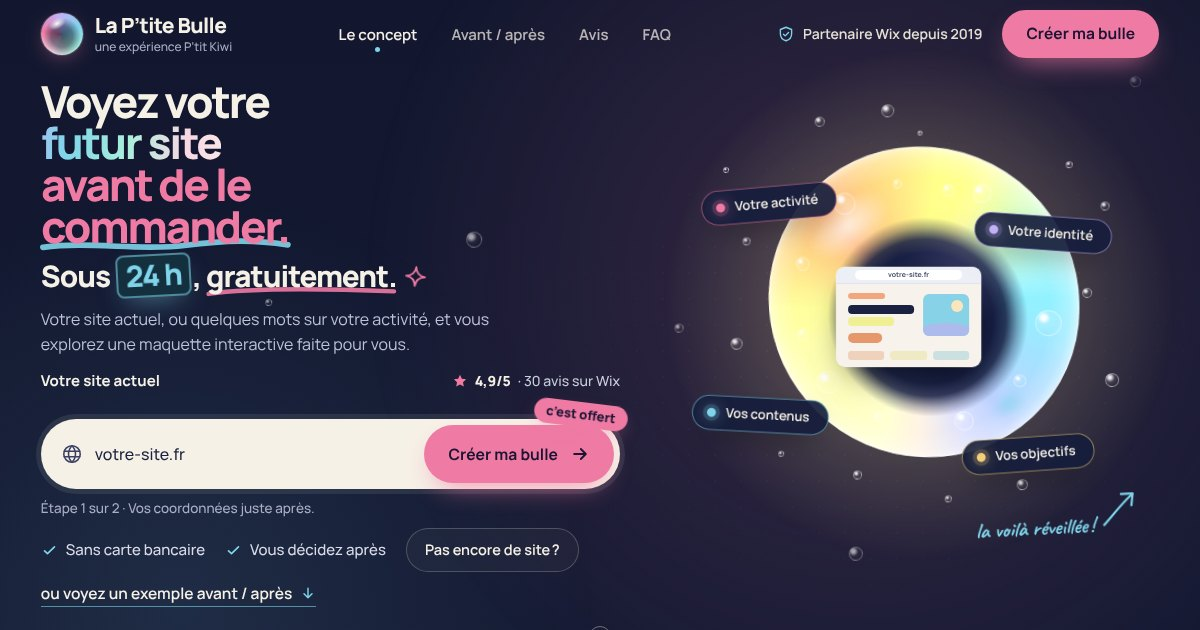
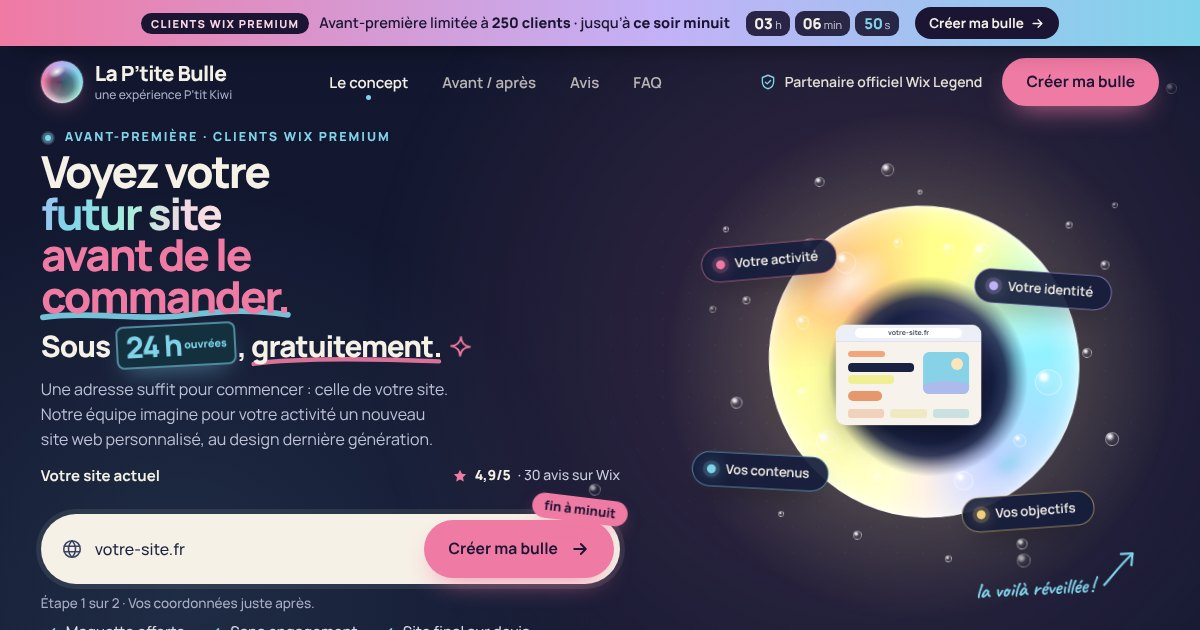
Harmonie avec le mail clients Wix

diff --git a/index.html b/index.html
@@ -4,12 +4,12 @@
 <meta charset="utf-8">
 <meta name="viewport" content="width=device-width, initial-scale=1">
 <title>La P’tite Bulle · Voyez votre futur site avant de le commander</title>
-<meta name="description" content="Une maquette interactive de votre futur site, imaginée pour votre activité. Offerte, prête sous 24 h, sans engagement. Une expérience P’tit Kiwi.">
+<meta name="description" content="Clients Wix Premium : découvrez en avant-première votre futur site, imaginé sous 24 h ouvrées. Maquette offerte, sans engagement, jusqu’au 25 octobre à minuit.">
 <meta name="theme-color" content="#12172F">
 <meta property="og:type" content="website">
 <meta property="og:locale" content="fr_FR">
 <meta property="og:title" content="La P’tite Bulle · Voyez votre futur site avant de le commander">
-<meta property="og:description" content="Une maquette interactive de votre futur site, offerte et prête sous 24 h. Une expérience P’tit Kiwi.">
+<meta property="og:description" content="En avant-première pour les clients Wix Premium : votre futur site imaginé sous 24 h ouvrées. Maquette offerte, jusqu’à ce soir minuit.">
 <meta property="og:url" content="https://la-ptite-bulle-lp.vercel.app/">
 <meta property="og:image" content="https://la-ptite-bulle-lp.vercel.app/og.jpg">
 <meta property="og:image:width" content="1200">
@@ -27,9 +27,9 @@
 <a class="skip" href="#lp-field">Aller au formulaire</a>
 <div id="offer" class="offer-bar" data-end="2026-10-25T23:00:00Z" role="region" aria-label="Offre limitée">
 <div class="offer-inner wrap">
-<p class="offer-text"><span class="offer-tag">Offre limitée</span><span class="offer-long">Votre maquette offerte <strong>jusqu’à ce soir minuit</strong></span><span class="offer-short">Offre <strong>jusqu’à minuit</strong></span></p>
+<p class="offer-text"><span class="offer-tag">Clients Wix Premium</span><span class="offer-long">Avant-première limitée à <strong>250 clients</strong> · jusqu’à <strong>ce soir minuit</strong></span><span class="offer-short"><strong>250 places</strong><span class="offer-short-x"> · fin à minuit</span></span></p>
 <p class="offer-timer" aria-hidden="true"><span class="ot"><b data-t="h">--</b><i>h</i></span><span class="ot"><b data-t="m">--</b><i>min</i></span><span class="ot ot-s"><b data-t="s">--</b><i>s</i></span></p>
-<span class="sr-only">Offre valable jusqu’au dimanche 25 octobre à minuit, heure de Paris.</span>
+<span class="sr-only">Avant-première réservée aux clients Wix Premium, limitée à 250 clients, valable jusqu’au dimanche 25 octobre à minuit, heure de Paris.</span>
 <button type="button" class="offer-cta" data-goto-field>Créer ma bulle<svg aria-hidden="true" viewBox="0 0 24 24"><path d="M5 12h14M13 6l6 6-6 6"/></svg></button>
 <p class="offer-ended-msg">Cette offre s’est terminée le dimanche 25 octobre à minuit.</p>
 </div>
@@ -62,15 +62,16 @@
 <button type="button" data-open="panel-avis">Avis</button>
 <button type="button" data-open="panel-faq">FAQ</button>
 </nav>
-<div class="top-right"><p class="top-badge"><svg aria-hidden="true" viewBox="0 0 24 24"><path d="M12 3l7.5 3v5.6c0 4.6-3.2 8.2-7.5 9.4-4.3-1.2-7.5-4.8-7.5-9.4V6z"/><path d="M8.6 12.2l2.4 2.3 4.4-4.6"/></svg>Partenaire Wix depuis 2019</p><button type="button" class="btn btn-pink btn-sm" data-goto-field data-magnet>Créer ma bulle</button></div>
+<div class="top-right"><p class="top-badge"><svg aria-hidden="true" viewBox="0 0 24 24"><path d="M12 3l7.5 3v5.6c0 4.6-3.2 8.2-7.5 9.4-4.3-1.2-7.5-4.8-7.5-9.4V6z"/><path d="M8.6 12.2l2.4 2.3 4.4-4.6"/></svg>Partenaire officiel Wix Legend</p><button type="button" class="btn btn-pink btn-sm" data-goto-field data-magnet>Créer ma bulle</button></div>
 </header>
 
 <div class="hero-main wrap">
 <div class="hero-copy">
+<p class="hero-eyebrow"><span class="pulse-dot" aria-hidden="true"><span></span></span>Avant-première · clients Wix Premium</p>
 <h1 id="lp-title" class="hero-title"><span class="w" style="--i:0">Voyez</span> <span class="w" style="--i:1">votre</span><br><span class="w iris" style="--i:2">futur site</span><br><span class="pink"><span class="w" style="--i:3">avant</span> <span class="w" style="--i:4">de</span> <span class="w" style="--i:5">le</span><br><span class="w swoosh" style="--i:6">commander.<svg aria-hidden="true" viewBox="0 0 400 26"><path d="M6 18 C 80 8, 160 24, 230 15 S 340 6, 394 14"/></svg></span></span></h1>
-<p class="promise">Sous <span class="chip-24">24 h</span>, <span class="promise-tail"><span class="promise-free">gratuitement.<svg aria-hidden="true" viewBox="0 0 300 20"><path d="M4 14 C 60 6, 140 4, 296 10"/></svg></span><svg class="promise-spark" aria-hidden="true" viewBox="0 0 24 24"><path d="M12 2 C12.6 8.2 15.8 11.4 22 12 C15.8 12.6 12.6 15.8 12 22 C11.4 15.8 8.2 12.6 2 12 C8.2 11.4 11.4 8.2 12 2 Z"/></svg></span></p>
+<p class="promise">Sous <span class="chip-24">24 h<small>ouvrées</small></span>, <span class="promise-tail"><span class="promise-free">gratuitement.<svg aria-hidden="true" viewBox="0 0 300 20"><path d="M4 14 C 60 6, 140 4, 296 10"/></svg></span><svg class="promise-spark" aria-hidden="true" viewBox="0 0 24 24"><path d="M12 2 C12.6 8.2 15.8 11.4 22 12 C15.8 12.6 12.6 15.8 12 22 C11.4 15.8 8.2 12.6 2 12 C8.2 11.4 11.4 8.2 12 2 Z"/></svg></span></p>
 
-<p class="lead">Votre site actuel, ou quelques mots sur votre activité, et vous explorez une maquette interactive faite pour vous.</p>
+<p class="lead">Une adresse suffit pour commencer : celle de votre site. Notre équipe imagine pour votre activité un nouveau site web personnalisé, au design dernière génération.</p>
 
 <div class="field-block">
 <div class="field-head">
@@ -107,8 +108,9 @@
 
 <div class="hero-extra">
 <ul class="checks">
-<li><svg aria-hidden="true" viewBox="0 0 24 24"><path d="M5 12.5l4.2 4L19 7"/></svg>Sans carte bancaire</li>
-<li><svg aria-hidden="true" viewBox="0 0 24 24"><path d="M5 12.5l4.2 4L19 7"/></svg>Vous décidez après</li>
+<li><svg aria-hidden="true" viewBox="0 0 24 24"><path d="M5 12.5l4.2 4L19 7"/></svg>Maquette offerte</li>
+<li><svg aria-hidden="true" viewBox="0 0 24 24"><path d="M5 12.5l4.2 4L19 7"/></svg>Sans engagement</li>
+<li><svg aria-hidden="true" viewBox="0 0 24 24"><path d="M5 12.5l4.2 4L19 7"/></svg>Site final sur devis</li>
 <li id="lp-toggle-item"><button type="button" id="lp-toggle" class="btn btn-ghost btn-sm">Pas encore de site ?</button></li>
 </ul>
 <a href="#avant-apres" class="link-down">ou voyez un exemple avant / après<svg aria-hidden="true" viewBox="0 0 24 24"><path d="M12 5v14M6 13l6 6 6-6"/></svg></a>
@@ -300,7 +302,7 @@
 <ol class="steps">
 <li class="step"><span class="step-num" aria-hidden="true">01</span><span class="step-text"><span class="step-title">On part de votre site actuel</span><span class="step-sub">Vos textes, vos photos, votre histoire.</span></span></li>
 <li class="step"><span class="step-num" aria-hidden="true">02</span><span class="step-text"><span class="step-title">On imagine votre nouvelle bulle</span><span class="step-sub">Identité, structure et contenus repensés.</span></span></li>
-<li class="step"><span class="step-num" aria-hidden="true">03</span><span class="step-text"><span class="step-title">Vous explorez la maquette</span><span class="step-sub">Navigable, sous 24 h, sans engagement.</span></span></li>
+<li class="step"><span class="step-num" aria-hidden="true">03</span><span class="step-text"><span class="step-title">Vous explorez la maquette</span><span class="step-sub">Navigable, sous 24 h ouvrées, sans engagement.</span></span></li>
 </ol>
 </div>
 <div class="s2-actions">
@@ -324,26 +326,26 @@
 </div>
 
 <div class="final-inner wrap">
-<p class="eyebrow final-eyebrow"><span class="pulse-dot" aria-hidden="true"><span></span></span>À vous de jouer</p>
+<p class="eyebrow final-eyebrow"><span class="pulse-dot" aria-hidden="true"><span></span></span>Avant-première clients Wix Premium</p>
 <h2 id="final-title" class="final-title">Prêt à souffler<br><span class="final-iris">votre bulle ?</span></h2>
-<p class="final-lead">Une adresse, un e-mail, et votre futur site prend forme.</p>
+<p class="final-lead">Une adresse suffit pour commencer : celle de votre site.</p>
 
 <div class="countdown" aria-hidden="true">
 <span class="cd-label">L’offre se termine dans</span>
 <div class="cd-row"><span class="cd-b"><b data-t="h">--</b><i>heures</i></span><span class="cd-sep">:</span><span class="cd-b"><b data-t="m">--</b><i>minutes</i></span><span class="cd-sep">:</span><span class="cd-b cd-sec"><b data-t="s">--</b><i>secondes</i></span></div>
-<span class="cd-end">Dimanche 25 octobre à minuit, heure de Paris</span>
+<span class="cd-end">Limité à 250 clients Wix · jusqu’au dimanche 25 octobre à minuit, heure de Paris</span>
 </div>
-<p class="sr-only">L’offre est valable jusqu’au dimanche 25 octobre à minuit, heure de Paris.</p>
+<p class="sr-only">L’offre est limitée à 250 clients Wix et valable jusqu’au dimanche 25 octobre à minuit, heure de Paris.</p>
 <div class="final-zone">
 <ul class="sr-only">
-<li>Gratuit</li><li>Sans engagement</li><li>Maquette navigable</li><li>Sur mesure</li><li>Sans carte bancaire</li>
+<li>Maquette offerte</li><li>Sans engagement</li><li>Sur mesure</li><li>Design dernière génération</li><li>Avec Wix Headless</li>
 </ul>
 <div class="pops" aria-hidden="true">
-<span class="pop" style="--px:-16%;--py:40px;--ps:118px;--pd:7s;--pdl:-1s;--pc:239,122,164"><span class="pop-ball"></span><span class="pop-label">Gratuit</span><span class="pop-drops"><i></i><i></i><i></i><i></i><i></i><i></i></span></span>
+<span class="pop" style="--px:-16%;--py:40px;--ps:118px;--pd:7s;--pdl:-1s;--pc:239,122,164"><span class="pop-ball"></span><span class="pop-label">Offerte</span><span class="pop-drops"><i></i><i></i><i></i><i></i><i></i><i></i></span></span>
 <span class="pop" style="--px:116%;--py:24px;--ps:132px;--pd:8s;--pdl:-3s;--pc:127,212,234"><span class="pop-ball"></span><span class="pop-label">Sans engagement</span><span class="pop-drops"><i></i><i></i><i></i><i></i><i></i><i></i></span></span>
 <span class="pop" style="--px:-20%;--py:220px;--ps:124px;--pd:7.5s;--pdl:-2s;--pc:195,177,247"><span class="pop-ball"></span><span class="pop-label">Sur mesure</span><span class="pop-drops"><i></i><i></i><i></i><i></i><i></i><i></i></span></span>
-<span class="pop" style="--px:115%;--py:262px;--ps:112px;--pd:6.5s;--pdl:-4s;--pc:243,207,122"><span class="pop-ball"></span><span class="pop-label">Navigable</span><span class="pop-drops"><i></i><i></i><i></i><i></i><i></i><i></i></span></span>
-<span class="pop" style="--px:127%;--py:146px;--ps:116px;--pd:8.5s;--pdl:-5s;--pc:168,238,219"><span class="pop-ball"></span><span class="pop-label">Sans carte bancaire</span><span class="pop-drops"><i></i><i></i><i></i><i></i><i></i><i></i></span></span>
+<span class="pop" style="--px:115%;--py:262px;--ps:112px;--pd:6.5s;--pdl:-4s;--pc:243,207,122"><span class="pop-ball"></span><span class="pop-label">Dernière génération</span><span class="pop-drops"><i></i><i></i><i></i><i></i><i></i><i></i></span></span>
+<span class="pop" style="--px:127%;--py:146px;--ps:116px;--pd:8.5s;--pdl:-5s;--pc:168,238,219"><span class="pop-ball"></span><span class="pop-label">Wix Headless</span><span class="pop-drops"><i></i><i></i><i></i><i></i><i></i><i></i></span></span>
 </div>
 
 <div class="final-card">
@@ -378,19 +380,20 @@
 <p class="eta-main">Demandez maintenant : votre maquette arrive au plus tard <strong class="eta-when">très vite</strong>.</p>
 <p class="eta-sub"><span class="eta-date"></span>jours ouvrés, heure de Paris</p>
 </div>
+<p class="final-note">Maquette offerte, sans engagement. Création du site final sur devis.</p>
 </div>
 </div>
 
 <ol class="timeline">
-<li class="tl-item"><span class="tl-dot" aria-hidden="true"><svg viewBox="0 0 24 24"><circle cx="12" cy="12" r="9"/><path d="M3.5 9h17M3.5 15h17M12 3c2.6 2.6 3.8 5.6 3.8 9s-1.2 6.4-3.8 9c-2.6-2.6-3.8-5.6-3.8-9S9.4 5.6 12 3z"/></svg></span><span class="tl-when">Aujourd’hui</span><span class="tl-what">Vous donnez votre adresse ou votre activité.</span></li>
-<li class="tl-item"><span class="tl-dot" aria-hidden="true"><svg viewBox="0 0 24 24"><path d="M12 2 C12.6 8.2 15.8 11.4 22 12 C15.8 12.6 12.6 15.8 12 22 C11.4 15.8 8.2 12.6 2 12 C8.2 11.4 11.4 8.2 12 2 Z"/></svg></span><span class="tl-when">Sous 24 h ouvrées</span><span class="tl-what">Vous explorez votre bulle, comme un vrai site.</span></li>
-<li class="tl-item"><span class="tl-dot" aria-hidden="true"><svg viewBox="0 0 24 24"><path d="M5 12.5l4.2 4L19 7"/></svg></span><span class="tl-when">Ensuite</span><span class="tl-what">Vous décidez, sans engagement.</span></li>
+<li class="tl-item"><span class="tl-dot" aria-hidden="true"><svg viewBox="0 0 24 24"><circle cx="12" cy="12" r="9"/><path d="M3.5 9h17M3.5 15h17M12 3c2.6 2.6 3.8 5.6 3.8 9s-1.2 6.4-3.8 9c-2.6-2.6-3.8-5.6-3.8-9S9.4 5.6 12 3z"/></svg></span><span class="tl-when">Vous cliquez.</span><span class="tl-what">Vous indiquez l’adresse de votre site actuel.</span></li>
+<li class="tl-item"><span class="tl-dot" aria-hidden="true"><svg viewBox="0 0 24 24"><path d="M12 2 C12.6 8.2 15.8 11.4 22 12 C15.8 12.6 12.6 15.8 12 22 C11.4 15.8 8.2 12.6 2 12 C8.2 11.4 11.4 8.2 12 2 Z"/></svg></span><span class="tl-when">Vous explorez.</span><span class="tl-what">Votre maquette arrive sous 24 h ouvrées, navigable comme un vrai site.</span></li>
+<li class="tl-item"><span class="tl-dot" aria-hidden="true"><svg viewBox="0 0 24 24"><path d="M5 12.5l4.2 4L19 7"/></svg></span><span class="tl-when">Vous décidez.</span><span class="tl-what">Sans engagement. Création du site final sur devis.</span></li>
 </ol>
 
 <div class="final-trust">
 <button type="button" class="rating" data-open="panel-avis" aria-label="Note de 4,9 sur 5 sur 30 avis Wix, voir les avis"><svg aria-hidden="true" width="16" height="16" viewBox="0 0 24 24"><path d="M12 2.8l2.8 5.9 6.4.8-4.7 4.4 1.2 6.4L12 17.2l-5.7 3.1 1.2-6.4L2.8 9.5l6.4-.8z" fill="#EF7AA4"/></svg><strong>4,9/5</strong> · 30 avis sur Wix</button>
 <span class="trust-sep" aria-hidden="true"></span>
-<p class="top-badge"><svg aria-hidden="true" viewBox="0 0 24 24"><path d="M12 3l7.5 3v5.6c0 4.6-3.2 8.2-7.5 9.4-4.3-1.2-7.5-4.8-7.5-9.4V6z"/><path d="M8.6 12.2l2.4 2.3 4.4-4.6"/></svg>Partenaire Wix depuis 2019</p>
+<p class="top-badge"><svg aria-hidden="true" viewBox="0 0 24 24"><path d="M12 3l7.5 3v5.6c0 4.6-3.2 8.2-7.5 9.4-4.3-1.2-7.5-4.8-7.5-9.4V6z"/><path d="M8.6 12.2l2.4 2.3 4.4-4.6"/></svg>Partenaire officiel Wix Legend · depuis 2019</p>
 </div>
 </div>
 </section>
@@ -404,7 +407,7 @@
 <span class="pill-sep" aria-hidden="true"></span>
 <button type="button" data-open="panel-faq"><svg class="pill-icon" aria-hidden="true" viewBox="0 0 24 24"><path d="M4 12a8 8 0 1 1 3.3 6.5L4 20l1.2-3.6A8 8 0 0 1 4 12z"/></svg>FAQ</button>
 </nav>
-<p class="footer-legal"><span>© 2026 P’tit Kiwi · Partenaire officiel Wix</span></p>
+<p class="footer-legal"><span>© 2026 La P’tite Bulle · Partenaire officiel Wix Legend</span></p>
 </div>
 </footer>
 
@@ -419,7 +422,7 @@
 <span class="score-big" aria-hidden="true">4,9</span>
 <span class="score-side"><span class="sr-only">Note moyenne de 4,9 sur 5, sur 30 avis publiés sur Wix</span><span class="stars stars-lg" aria-hidden="true"><i></i><i></i><i></i><i></i><i></i></span><span class="score-sub" aria-hidden="true">sur 5 · 30 avis publiés sur Wix</span></span>
 </div>
-<p class="trust-line"><svg aria-hidden="true" viewBox="0 0 24 24"><path d="M12 3l7.5 3v5.6c0 4.6-3.2 8.2-7.5 9.4-4.3-1.2-7.5-4.8-7.5-9.4V6z"/><path d="M8.6 12.2l2.4 2.3 4.4-4.6"/></svg>P’tit Kiwi, partenaire Wix depuis 2019</p>
+<p class="trust-line"><svg aria-hidden="true" viewBox="0 0 24 24"><path d="M12 3l7.5 3v5.6c0 4.6-3.2 8.2-7.5 9.4-4.3-1.2-7.5-4.8-7.5-9.4V6z"/><path d="M8.6 12.2l2.4 2.3 4.4-4.6"/></svg>La P’tite Bulle, partenaire officiel Wix Legend · partenaire Wix depuis 2019</p>
 <ul class="reviews" hidden>
 <li class="review" style="--q:rgba(239,122,164,.5)"><span class="stars" aria-hidden="true"><i></i><i></i><i></i><i></i><i></i></span><p class="review-text">[Collez ici l’avis d’un client, mot pour mot]</p><p class="review-by">[Prénom N.] <span>· [Activité, ville]</span></p></li>
 <li class="review" style="--q:rgba(127,212,234,.5)"><span class="stars" aria-hidden="true"><i></i><i></i><i></i><i></i><i></i></span><p class="review-text">[Collez ici un deuxième avis client]</p><p class="review-by">[Prénom N.] <span>· [Activité, ville]</span></p></li>
@@ -440,14 +443,13 @@
 <button type="button" class="close" data-close aria-label="Fermer"><svg aria-hidden="true" viewBox="0 0 24 24"><path d="M6 6l12 12M18 6L6 18"/></svg></button>
 </div>
 <div class="faq">
-<details><summary>Jusqu’à quand l’offre est-elle valable ?<span class="chev" aria-hidden="true"></span></summary><p>Jusqu’au dimanche 25 octobre à minuit, heure de Paris. Toutes les demandes reçues avant cette heure sont traitées sous 24 h ouvrées.</p></details>
-<details open><summary>La maquette est-elle vraiment gratuite ?<span class="chev" aria-hidden="true"></span></summary><p>Oui. L’aperçu de votre futur site est offert : aucun paiement, aucune carte bancaire. Vous ne payez que si vous décidez ensuite de lancer la création.</p></details>
-<details><summary>Que vais-je recevoir exactement ?<span class="chev" aria-hidden="true"></span></summary><p>Une première version personnalisée et navigable de votre site, imaginée pour votre activité. Vous la parcourez comme un vrai site, sur ordinateur comme sur mobile.</p></details>
+<details><summary>Qui peut en profiter, et jusqu’à quand ?<span class="chev" aria-hidden="true"></span></summary><p>Les clients Wix Premium, en avant-première, dans la limite de 250 clients et jusqu’au dimanche 25 octobre à minuit, heure de Paris. Toutes les demandes reçues avant cette heure sont traitées sous 24 h ouvrées.</p></details>
+<details open><summary>La maquette est-elle vraiment gratuite ?<span class="chev" aria-hidden="true"></span></summary><p>Oui. La maquette est offerte et sans engagement : aucun paiement, aucune carte bancaire. La création du site final se fait ensuite sur devis, seulement si vous le souhaitez.</p></details>
+<details><summary>Que vais-je recevoir exactement ?<span class="chev" aria-hidden="true"></span></summary><p>Un nouveau site web personnalisé pour votre activité, au design dernière génération : une maquette navigable que vous explorez comme un vrai site, sur ordinateur comme sur mobile.</p></details>
 <details><summary>En combien de temps ?<span class="chev" aria-hidden="true"></span></summary><p>Sous 24 h ouvrées après votre demande, week-ends et jours fériés exclus : nous vous envoyons le lien de votre bulle par e-mail.</p></details>
-<details><summary>Je n’ai pas encore de site, c’est possible ?<span class="chev" aria-hidden="true"></span></summary><p>Bien sûr. Cliquez sur « Pas encore de site ? » et décrivez votre activité en quelques mots : nous partons de là.</p></details>
-<details><summary>Et après la maquette ?<span class="chev" aria-hidden="true"></span></summary><p>Vous décidez. Si elle vous plaît, nous vous proposons un devis pour la création ou la refonte complète. Sinon, vous la gardez en souvenir, sans engagement.</p></details>
-<details><summary>Sur quelle plateforme sera mon site ?<span class="chev" aria-hidden="true"></span></summary><p>Sur Wix Studio. P’tit Kiwi est partenaire Wix depuis 2019, et vous gardez la main sur vos contenus une fois le site en ligne.</p></details>
-<details><summary>Combien coûte la création ?<span class="chev" aria-hidden="true"></span></summary><p>Chaque projet est chiffré sur devis, une fois la maquette découverte : vous connaissez le prix exact avant de vous engager.</p></details>
+<details><summary>Et après la maquette ?<span class="chev" aria-hidden="true"></span></summary><p>Vous décidez. Si elle vous plaît, nous vous proposons un devis pour la création du site final. Sinon, vous la gardez en souvenir, sans engagement.</p></details>
+<details><summary>Sur quelle plateforme sera mon site ?<span class="chev" aria-hidden="true"></span></summary><p>Sur Wix Headless : un design sur mesure et dernière génération, propulsé par Wix, avec vos contenus toujours gérés depuis votre espace Wix. La P’tite Bulle est partenaire officiel Wix Legend, et partenaire Wix depuis 2019.</p></details>
+<details><summary>Combien coûte la création ?<span class="chev" aria-hidden="true"></span></summary><p>La création du site final se fait sur devis, une fois la maquette découverte : vous connaissez le prix exact avant de vous engager.</p></details>
 </div>
 <div class="ask">
 <p class="ask-title">Une autre question ?</p>

diff --git a/styles.css b/styles.css
@@ -758,6 +758,16 @@ section[id],#lp-field,#fin-field{scroll-margin-top:calc(var(--bar-h) + 16px)}
 
 @media (min-width:1900px){.motion-toggle{left:max(16px,calc((100% - 1680px) / 2 + 48px))}}
 @media not all and (min-width:1080px) and (min-height:640px){.final{padding-top:clamp(56px,8vh,96px)}.s2-pin{padding-bottom:24px!important}}
+
+/* v12 : harmonie avec l'e-mail */
+.hero-eyebrow{margin:0 0 -4px;display:flex;align-items:center;gap:10px;font-weight:800;font-size:12.5px;line-height:1;letter-spacing:.16em;text-transform:uppercase;color:var(--cyan);animation:rise-in .7s .02s var(--ease) both}
+.chip-24 small{display:inline-block;margin-left:.22em;font-size:.36em;font-weight:800;letter-spacing:0;vertical-align:.62em}
+#lp-toggle-item,#fin-toggle{display:none!important}
+.final-note{margin:2px 0 0;text-align:center;font-weight:500;font-size:12.5px;line-height:1.4;color:var(--muted-2)}
+@media (max-width:380px){.offer-short-x{display:none}}
+@media (max-height:500px){.hero-eyebrow{display:none}}
+@media (max-width:380px) and (max-height:700px){.hero-eyebrow{font-size:11.5px}}
+
 @media (prefers-reduced-motion:reduce){
   html{scroll-behavior:auto}
   *,*::before,*::after{animation-duration:.001ms!important;animation-delay:0s!important;animation-iteration-count:1!important;transition-duration:.001ms!important}
